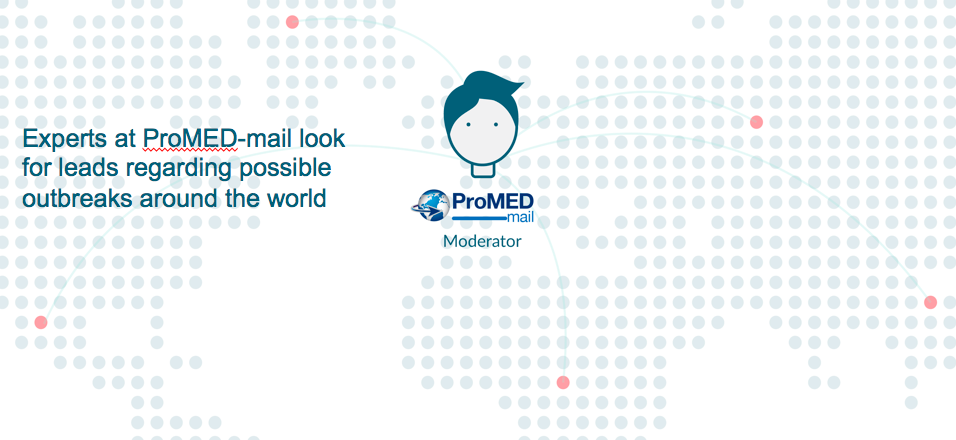
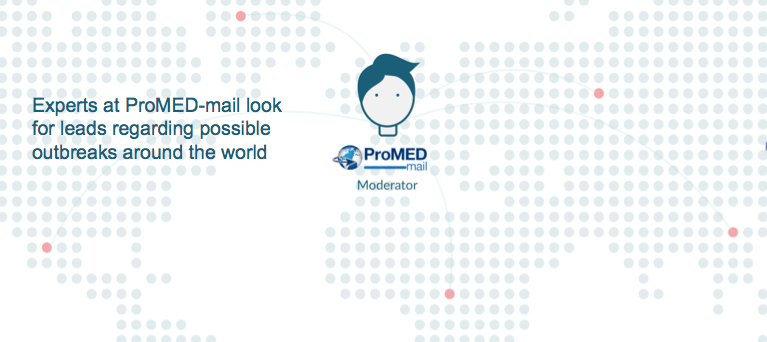
updated css

diff --git a/css/styles.css b/css/styles.css
@@ -2,7 +2,7 @@
 .box-shadow-none{-webkit-box-shadow:inset 0 0 0 rgba(0,0,0,0);box-shadow:inset 0 0 0 rgba(0,0,0,0)}
 .fullwidth{width:100%}
 html{font-size:1em}
-body{font-family:'Lato',sans-serif;font-weight:400;font-size:1em;line-height:1.5}
+body{font-family:'Lato',sans-serif;font-weight:400;font-size:1em;line-height:1.5;color:#2e3335}
 p{margin:0 0 1.5em 0}
 .small,small{font-size:.875em}
 .link{cursor:pointer}
@@ -42,8 +42,8 @@ h3,.h3{line-height:1.5em}
 .navbar{margin-bottom:0;padding:0;border-radius:0;border:0;z-index:1}
 .navbar-header a{line-height:96px;height:96px}
 .navbar-nav>li>a{line-height:96px;height:96px;padding-top:0;padding-bottom:0}
-.navbar-nav>li>a.btn.btn-huge{line-height:28px;padding-top:24px;padding-bottom:12px;background:#063342;background:#333;color:#fff;border-radius:0;border:0;width:220px;height:96px;margin:0}
-.btn-huge:after{content:'';position:absolute;top:100%;left:0;right:0;margin:0 auto;width:0;height:0;border-top:solid 48px #333;border-left:solid 110px transparent;border-right:solid 110px transparent;-webkit-transition:all .25s ease-out;-moz-transition:all .25s ease-out;-o-transition:all .25s ease-out;transition:all .25s ease-out}
+.navbar-nav>li>a.btn.btn-huge{line-height:28px;padding-top:24px;padding-bottom:12px;background:#2e3335;color:#fff;border-radius:0;border:0;width:220px;height:96px;margin:0}
+.btn-huge:after{content:'';position:absolute;top:100%;left:0;right:0;margin:0 auto;width:0;height:0;border-top:solid 48px #2e3335;border-left:solid 110px transparent;border-right:solid 110px transparent;-webkit-transition:all .25s ease-out;-moz-transition:all .25s ease-out;-o-transition:all .25s ease-out;transition:all .25s ease-out}
 .jumbotron{position:relative;padding:72px 0;color:#fff;margin-bottom:0;background:url('../img/bg.jpg');background-size:cover;background-position:right center}
 .jumbotron.dashboard{padding:48px 0;background:#195b72;margin:0}
 .jumbotron.dashboard h1{font-size:36px}
@@ -69,7 +69,7 @@ a.btn-default,.btn-default{background-color:#063342;border-color:#063342;color:#
 btn.active.focus,.btn.active:focus,.btn.focus,.btn:active.focus,.btn:active:focus,.btn:focus{outline-offset:0}
 .btn-default.btn-sm,.btn-sm{padding:6px 12px;min-width:0;font-size:.875em;margin-top:-6px}
 .btn.stacked,.btn-sm.stacked{margin:0 0 12px 0}
-.navbar-default .navbar-nav>li>a{color:#333}
+.navbar-default .navbar-nav>li>a{color:#2e3335}
 .navbar-default .navbar-collapse,.navbar-default .navbar-form{border-color:transparent}
 .nav .btn-secondary,.btn-secondary{border:2px solid}
 .btn.secondary-color{color:#3fc8c8;background:#fff}

diff --git a/css/styles.less b/css/styles.less
@@ -33,6 +33,7 @@ body {
     font-weight: 400;
     font-size: 1em;
     line-height: 1.5;
+    color: @dark-gray;
     }
 
 p {
@@ -229,8 +230,7 @@ h3, .h3 {
     line-height: 28px;
     padding-top:24px;
     padding-bottom:12px;
-    background: #063342;
-    background: #333333;
+    background: @dark-gray;
     color: #fff;
     border-radius: 0px;
     border: 0px;
@@ -248,7 +248,7 @@ h3, .h3 {
     margin: 0 auto;
     width: 0;
     height: 0;
-    border-top: solid 48px #333333;
+    border-top: solid 48px @dark-gray;
     border-left: solid 110px transparent;
     border-right: solid 110px transparent;
     .transition;
@@ -401,7 +401,7 @@ btn.active.focus, .btn.active:focus, .btn.focus, .btn:active.focus, .btn:active:
     }
 
 .navbar-default .navbar-nav>li>a {
-    color: #333;
+    color: @dark-gray;
     }
 
 .navbar-default .navbar-collapse, .navbar-default .navbar-form {
